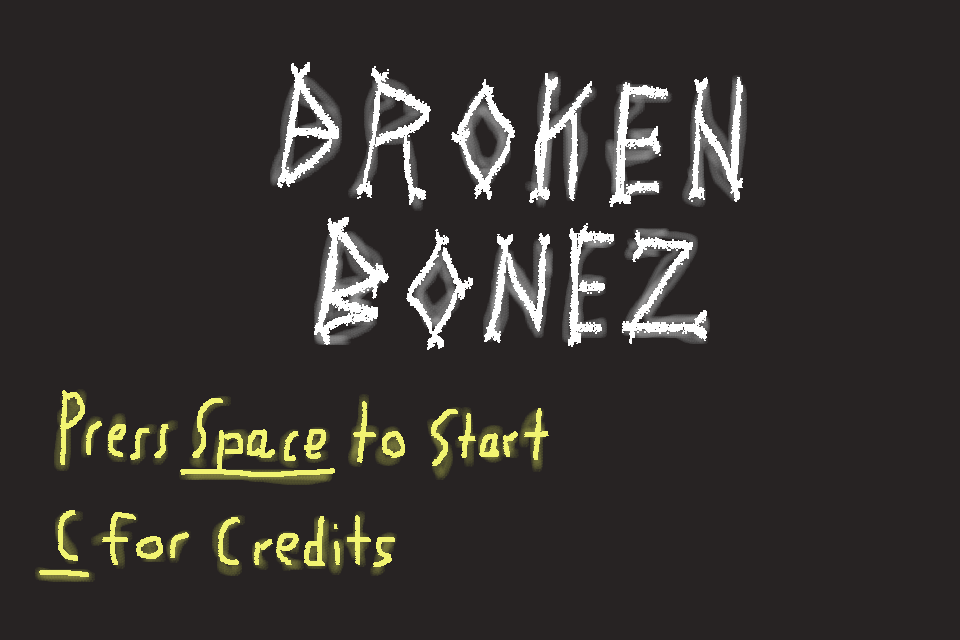
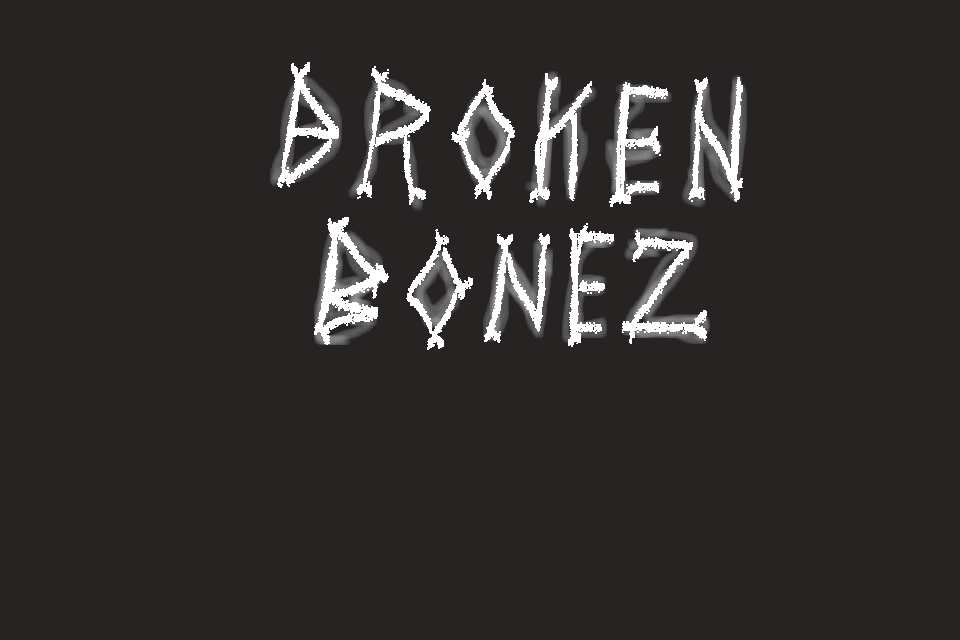
title screen + bitmap text

Changed region(s): [[0.0312, 0.5938, 0.5938, 0.7812], [0.0312, 0.7812, 0.4062, 0.9062]]

diff --git a/src/scenes/Play.js b/src/scenes/Play.js
@@ -105,8 +105,10 @@ class Play extends Phaser.Scene {
 
         //this.car = this.matter.add.car(this.floor.width / 40, this.floor.height / 2, 15, 15, 5);
         
-        this.bikeSpeed = 4;
+        this.bikeSpeed = 3;
         this.wheelInAir = false;
+        this.gameOver = false;
+        this.finishedLevel = false;
 
         //this.matter.world.setGravity(0, 50);
         
@@ -143,18 +145,27 @@ class Play extends Phaser.Scene {
         //     this.bike.setGravityY(0);
         // }
         //console.log(this.bike.y);
-        
-        // if not colliding with ground, set inAir to true
-        // then check if in air before input
 
+        this.bike.resetFlip();
+        //this.bike.setAngle(this.wheel.angle);
+        console.log(this.wheel.angle);
+        this.wheel2.angle = this.wheel.angle;
+        
+
+        if (this.finishedLevel) {
+            this.add.bitmapText(centerX, centerY, 'cleanFont', 'Level', 25).setOrigin(0.5).setTint(0xff0000);
+            this.add.bitmapText(centerX, centerY, 'cleanFont', '(Insert Level Num)', 25).setOrigin(0.5).setTint(0xff0000);
+            this.add.bitmapText(centerX, centerY, 'cleanFont', 'Cleared!', 25).setOrigin(0.5).setTint(0xff0000);
+            console.log("stuff");
+        }
 
         if(this.matter.overlap(this.bike, this.floor)){
-            this.bike.setPosition(this.floor.width / 31, this.floor.height / 1.75)
-            this.wheel.setPosition(this.floor.width / 25, this.floor.height / 1.72);
-            this.wheel2.setPosition(this.floor.width / 35, this.floor.height / 1.72);
-            this.bike.rotation = 0;
-            this.bike.setAngularVelocity(0);
-            this.lives-=1;
+            // this.bike.setPosition(this.floor.width / 31, this.floor.height / 1.75)
+            // this.wheel.setPosition(this.floor.width / 25, this.floor.height / 1.72);
+            // this.wheel2.setPosition(this.floor.width / 35, this.floor.height / 1.72);
+            // this.bike.rotation = 0;
+            // this.bike.setAngularVelocity(0);
+            // this.lives-=1;
             if(this.lives == 2)
             {
                 this.lives3.visible = false;
@@ -176,8 +187,11 @@ class Play extends Phaser.Scene {
         }
         if(this.matter.overlap(this.bike, this.finish) || this.matter.overlap(this.wheel, this.finish) || this.matter.overlap(this.wheel2, this.finish)){
             console.log("victory!");
+            this.finishedLevel = true;
             //go to next level
         }
+        // if not colliding with ground, set inAir to true
+        // then check if in air before input
         if (!this.matter.overlap(this.wheel, this.floor)) {
             this.wheelInAir = true;
         } else {
@@ -189,7 +203,7 @@ class Play extends Phaser.Scene {
             this.wheel2.setVelocityX(this.bikeSpeed);
     
             if (!this.sfxMotor.isPlaying) {
-                this.sfxMotor.play();
+                //this.sfxMotor.play();
             }
         }
         if(!this.wheelInAir && cursors.left.isDown)

diff --git a/src/scenes/Credits.js b/src/scenes/Credits.js
@@ -6,34 +6,20 @@ class Credits extends Phaser.Scene {
     create() {
 
         // change background color
-        this.cameras.main.setBackgroundColor('#000000');
-
-        // text config
-        let creditsConfig = {
-            fontFamily: 'Courier',
-            fontSize: '14px',
-            backgroundColor: '#F3B141',
-            color: '#843605',
-            align: 'right',
-            padding: {
-                top: 5,
-                bottom: 5,
-            },
-            fixedWidth: 0
-        }
+        this.cameras.main.setBackgroundColor('#272323');
 
         // show credits text
-        this.add.text(game.config.width/2, game.config.height/10, 'Credits', creditsConfig).setOrigin(0.5);
-        this.add.text(game.config.width/2, game.config.height/6, 'Music:', creditsConfig).setOrigin(0.5);
-        this.add.text(game.config.width/2, game.config.height/6 + 32, '', creditsConfig).setOrigin(0.5);
-        this.add.text(game.config.width/2, game.config.height/3, 'SFX:', creditsConfig).setOrigin(0.5);
-        this.add.text(game.config.width/2, game.config.height/3 + 32, '', creditsConfig).setOrigin(0.5);
-        this.add.text(game.config.width/2, game.config.height/3 + 64, '', creditsConfig).setOrigin(0.5);
-        this.add.text(game.config.width/2, game.config.height/3 + 96, '', creditsConfig).setOrigin(0.5);
-        this.add.text(game.config.width/2, game.config.height/3 + 128, '', creditsConfig).setOrigin(0.5);
-        this.add.text(game.config.width/2, game.config.height/3 + 160, '', creditsConfig).setOrigin(0.5);
-        this.add.text(game.config.width/2, game.config.height/3 + 256, 'All other assets made using GIMP 2.10.34', creditsConfig).setOrigin(0.5);
-        this.add.text(game.config.width/2, game.config.height/3 + 320, 'Press C to Return to Menu', creditsConfig).setOrigin(0.5);
+
+        this.add.bitmapText(centerX, centerY / 5, 'cleanFont', 'Credits', 20).setOrigin(0.5).setTint(0xfffffff);
+        this.add.bitmapText(centerX / 5, centerY / 3, 'cleanFont', 'Music', 20).setOrigin(0.5).setTint(0xfffffff);
+        // insert music text
+        this.add.bitmapText(centerX / 6, centerY / 1.5, 'cleanFont', 'SFX', 20).setOrigin(0.5).setTint(0xfffffff);
+        // insert sfx text 
+
+        this.add.bitmapText(centerX / 6, centerY / 0.7, 'cleanFont', 'Font', 20).setOrigin(0.5).setTint(0xfffffff);
+        this.add.bitmapText(centerX / 1.825, centerY / 0.625, 'cleanFont', 'https://emhuo.itch.io/nico-pixel-fonts-pack', 10).setOrigin(0.5).setTint(0xfffffff);
+        this.add.bitmapText(centerX, centerY / 0.55, 'cleanFont', 'All other assets made using GIMP and PhysicsEditor', 10).setOrigin(0.5).setTint(0xfffffff);
+        this.add.bitmapText(centerX, centerY / 0.525, 'cleanFont', 'Press C to Return to Menu', 10).setOrigin(0.5).setTint(0xfff200);
 
 
         keyC = this.input.keyboard.addKey(Phaser.Input.Keyboard.KeyCodes.C);

diff --git a/src/scenes/Menu.js b/src/scenes/Menu.js
@@ -6,6 +6,13 @@ class Menu extends Phaser.Scene {
     create() {
         this.titleScreen = this.add.image(0, 0,'titleScreen').setOrigin(0);
         this.titleScreen.scale = 0.5;
+
+        this.add.bitmapText(centerX / 1.4, centerY / 0.7, 'cleanFont', 'Press Space to Start', 25).setOrigin(0.5).setTint(0xfff200);
+        this.add.bitmapText(centerX / 2, centerY / 0.575, 'cleanFont', 'C for Credits', 25).setOrigin(0.5).setTint(0xfff200);
+
+        this.bike = this.add.sprite(centerX + 55, centerY + 65, 'bikeFull').setOrigin(0);
+        this.bike.scale = 0.10;
+        this.bike.angle = -20;
         
         // define keys
         keySpace = this.input.keyboard.addKey(Phaser.Input.Keyboard.KeyCodes.SPACE);

diff --git a/src/scenes/Load.js b/src/scenes/Load.js
@@ -22,6 +22,7 @@ class Load extends Phaser.Scene {
 
         this.load.image('finishImg', 'finishline.png');
 
+        this.load.image('bikeFull', 'Bike/bike-full.png');
         this.load.image('bikeImg', 'Bike/bike-nowheels.png');
         this.load.json('bikePoints', 'Bike/bikeFrame.json');
 
@@ -36,7 +37,7 @@ class Load extends Phaser.Scene {
         // load audio assets
         this.load.audio('sfx_motor', 'Audio/bikesound.mp3')
         // load font
-        
+        this.load.bitmapFont('cleanFont', 'font/CleanPlate.png', 'font/CleanPlate.xml');
     }
 
     create() {

diff --git a/src/main.js b/src/main.js
@@ -8,7 +8,7 @@ let config = {
         default: "matter",
         matter: {
             gravity: {
-                y: 0.25      //0.15
+                y: 0.15      //0.15  // 0.25
             },
             //debug: true
         }
